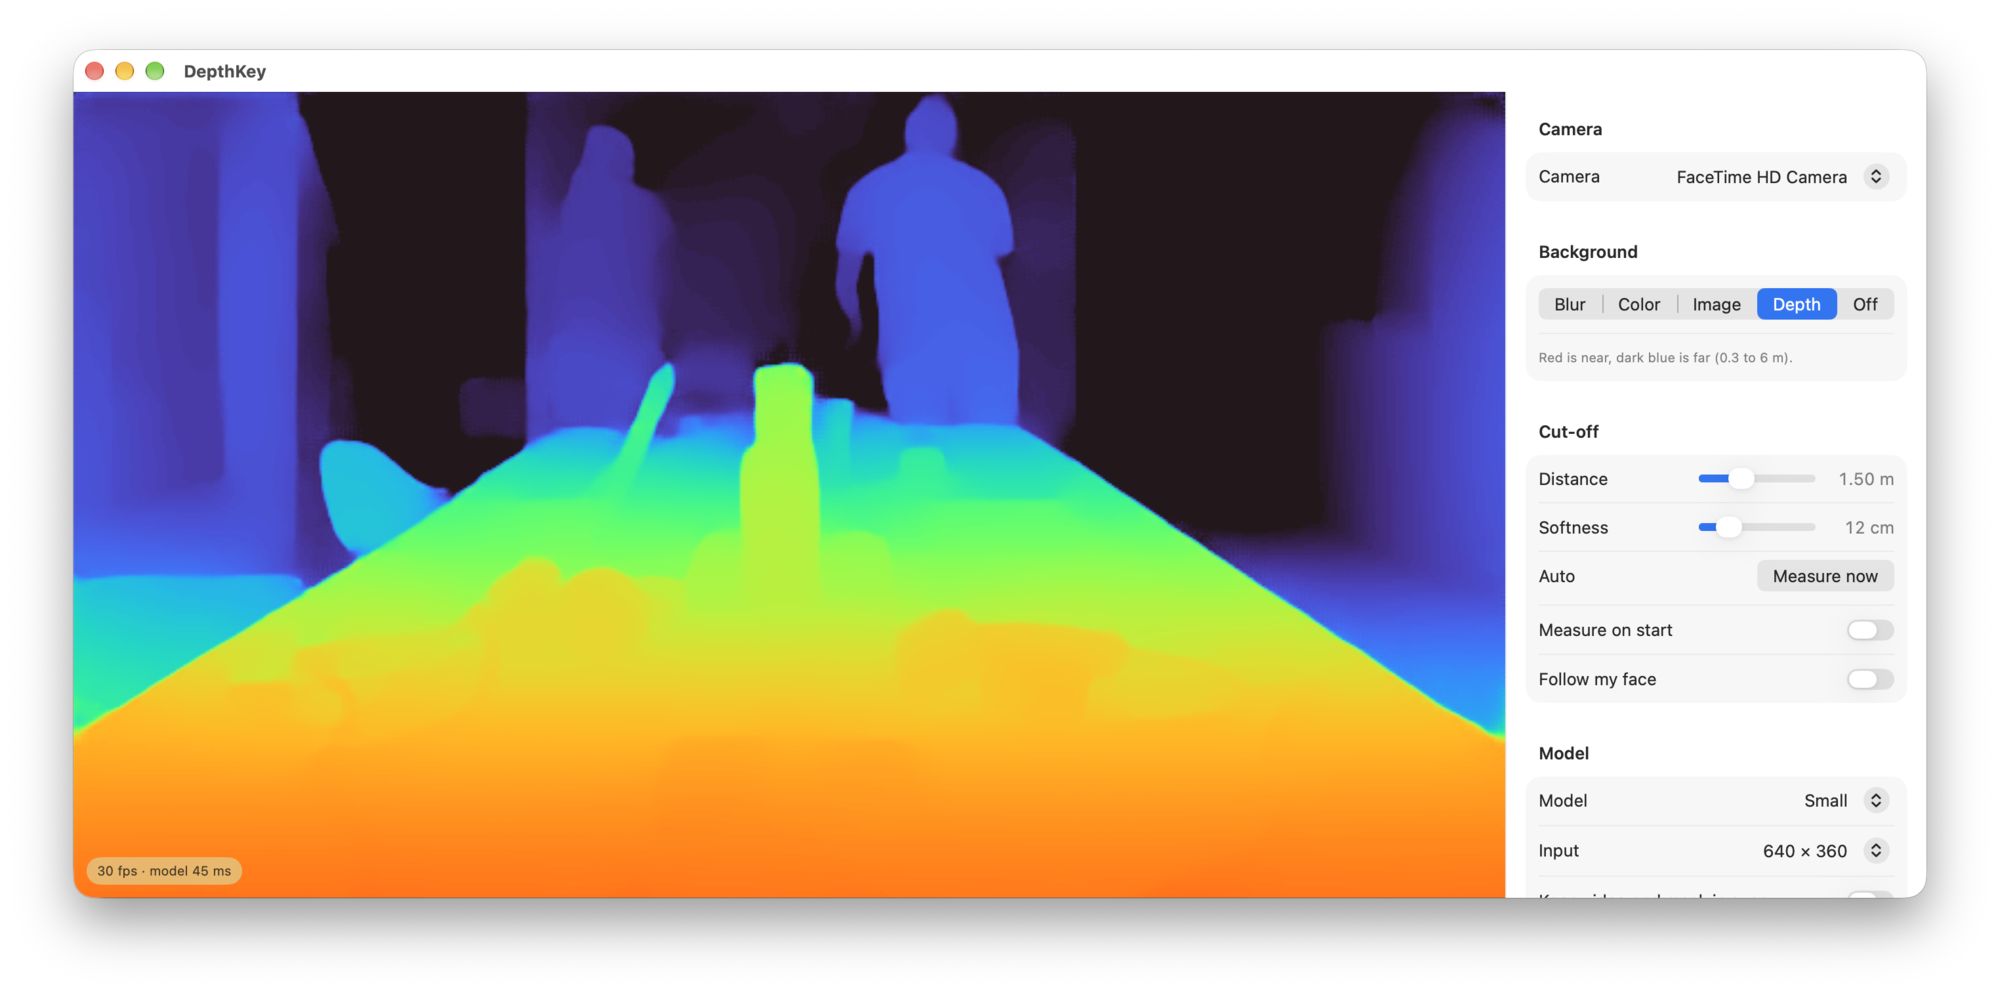
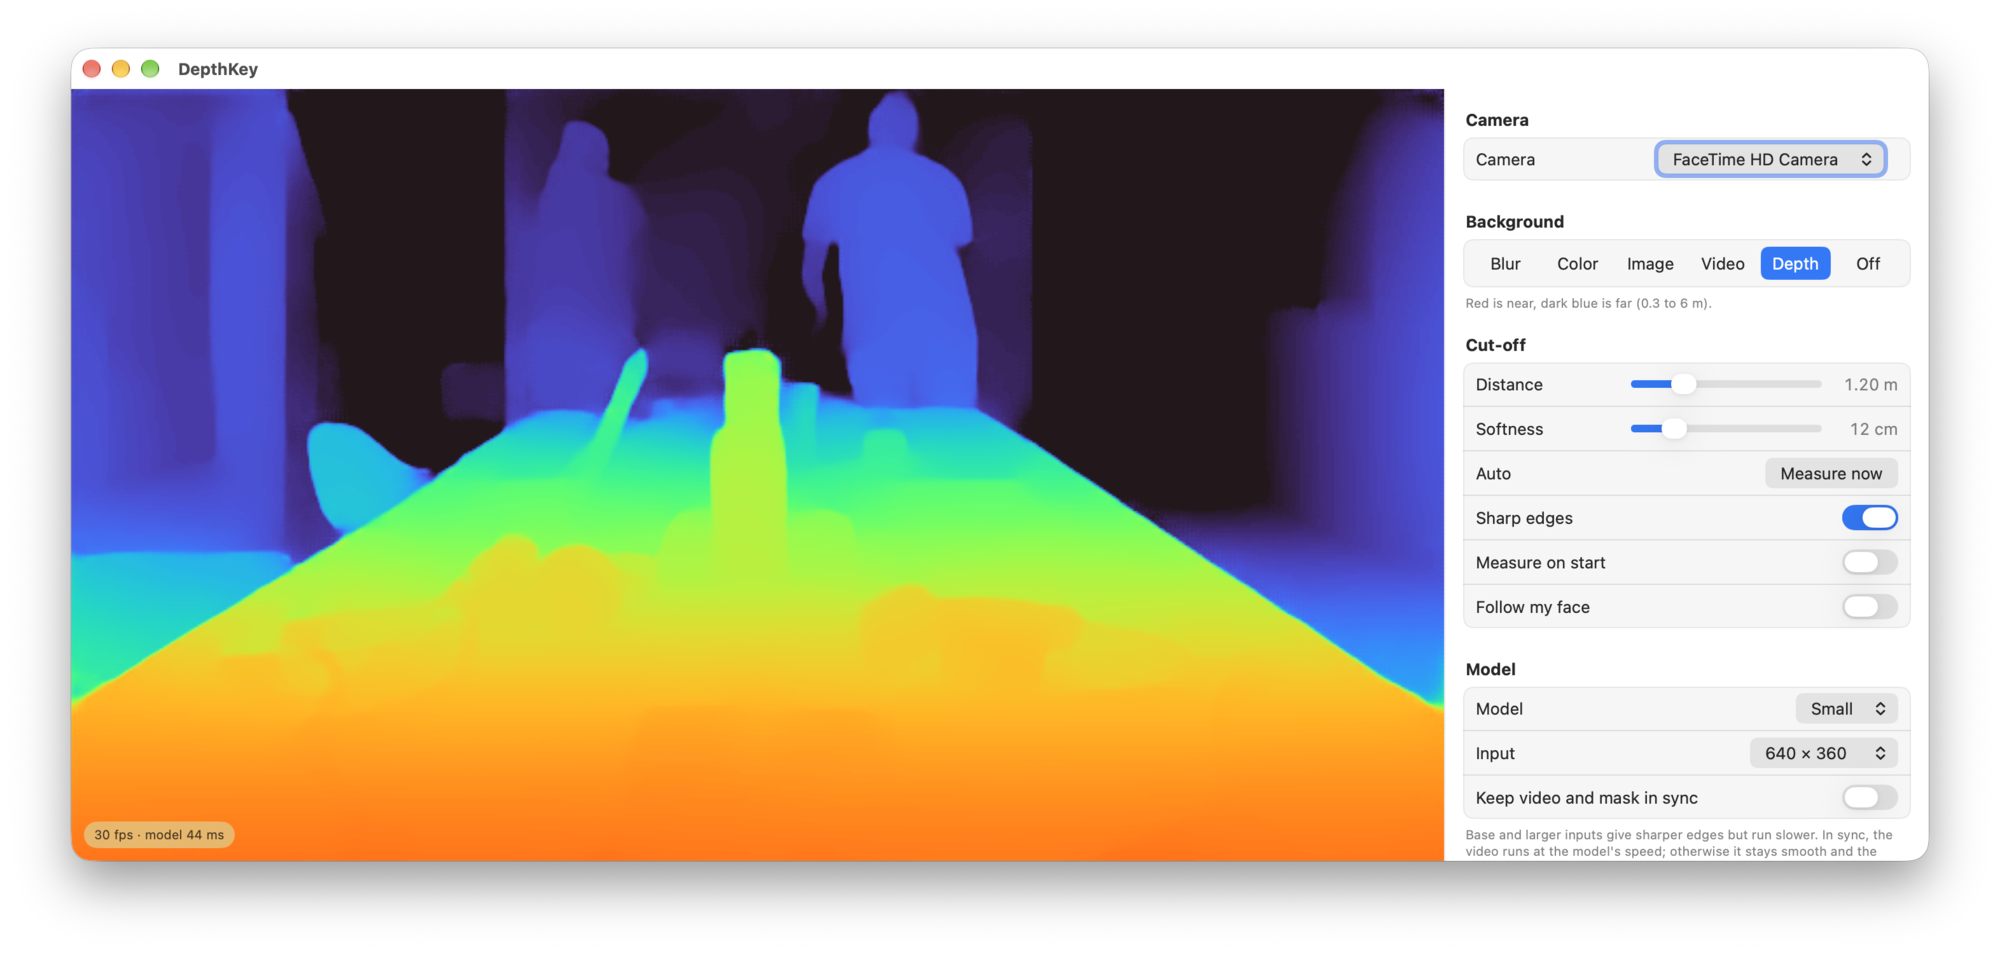
Sharp edges, light wrap, release workflow; version 0.0.1
Sharp edges upsamples the mask with a guided filter steered by the camera
image, so the cut follows hair and fingers. Light wrap lets the
background's light spill softly over your outline (Blur, Image, Video).
New README screenshot of the current sidebar.

.github/workflows/release.yml builds the app and DMG on a macOS runner and
publishes a GitHub Release for v* tags; run by hand it only builds.

diff --git a/mac/DepthKey/Compositor.swift b/mac/DepthKey/Compositor.swift
@@ -22,10 +22,34 @@ enum Compositor {
             let a = (top - depth.meters[i]) / soft  // inf depth gives -inf, so 0
             alpha[i] = a >= 1 ? 255 : (a > 0 ? UInt8(a * 255) : 0)
         }
-        let mask = CIImage(bitmapData: Data(alpha), bytesPerRow: depth.width,
-                           size: CGSize(width: depth.width, height: depth.height), format: .L8, colorSpace: nil)
-            .samplingLinear().transformed(by: toOutput)
-            .clampedToExtent().applyingGaussianBlur(sigma: 1.5 * size.width / 1280).cropped(to: rect)
+        let small = CIImage(bitmapData: Data(alpha), bytesPerRow: depth.width,
+                            size: CGSize(width: depth.width, height: depth.height), format: .L8, colorSpace: nil)
+        let k = size.width / 1920  // filter sizes are tuned at 1080p
+        let mask: CIImage
+        if p.sharpEdges {
+            // Scale the mask up, then refine it with a guided filter steered by the camera image,
+            // so the cut follows real edges (hair, fingers) instead of the blocky low-res depth.
+            // Fed the small mask directly, the filter leaves ghosts of the room in the background; a
+            // light blur first keeps it from sharpening the upscaled pixels into stair-steps.
+            // It writes its result to the red channel; copy that to green and blue, which the blend reads.
+            let red = CIVector(x: 1, y: 0, z: 0, w: 0)
+            mask = small.samplingLinear().transformed(by: toOutput)
+                .clampedToExtent().applyingGaussianBlur(sigma: 2 * k).cropped(to: rect)
+                .applyingFilter("CIGuidedFilter", parameters: [
+                    "inputGuideImage": camera,
+                    "inputRadius": 8 * k,
+                    "inputEpsilon": 0.004,
+                ])
+                .applyingFilter("CIColorMatrix", parameters: [
+                    "inputRVector": red, "inputGVector": red, "inputBVector": red,
+                    "inputAVector": CIVector(x: 0, y: 0, z: 0, w: 1),
+                ])
+                .applyingFilter("CIColorClamp")
+                .cropped(to: rect)
+        } else {
+            mask = small.samplingLinear().transformed(by: toOutput)
+                .clampedToExtent().applyingGaussianBlur(sigma: 2.25 * k).cropped(to: rect)
+        }
 
         let blurred = { camera.clampedToExtent().applyingGaussianBlur(sigma: p.blur * size.width / 1280).cropped(to: rect) }
         let background: CIImage
@@ -41,10 +65,31 @@ enum Compositor {
         case .depth, .off:
             return camera
         }
-        return camera.applyingFilter("CIBlendWithMask", parameters: [
+        let composite = camera.applyingFilter("CIBlendWithMask", parameters: [
             kCIInputBackgroundImageKey: background,
             kCIInputMaskImageKey: mask,
         ])
+        guard p.lightWrap > 0, p.mode != .color else { return composite }  // a wrap would spoil a chroma key
+
+        // Light wrap: the background's light spills a little over your outline, so you sit in the
+        // scene instead of on top of it. Spill = how much background is nearby, inside the foreground.
+        let r = 16 * k
+        let nearBackground = mask.applyingFilter("CIColorInvert")
+            .clampedToExtent().applyingGaussianBlur(sigma: r).cropped(to: rect)
+        let a = CGFloat(min(1, p.lightWrap * 1.6))
+        let spill = nearBackground
+            .applyingFilter("CIMultiplyCompositing", parameters: [kCIInputBackgroundImageKey: mask])
+            .applyingFilter("CIColorMatrix", parameters: [
+                "inputRVector": CIVector(x: a, y: 0, z: 0, w: 0),
+                "inputGVector": CIVector(x: 0, y: a, z: 0, w: 0),
+                "inputBVector": CIVector(x: 0, y: 0, z: a, w: 0),
+            ])
+        // Screen, not mix: the scene's light can only brighten your edges with its color; mixing
+        // its blurred image in made the edges look out of focus.
+        let glow = background.clampedToExtent().applyingGaussianBlur(sigma: r).cropped(to: rect)
+            .applyingFilter("CIMultiplyCompositing", parameters: [kCIInputBackgroundImageKey: spill])
+        return glow.applyingFilter("CIScreenBlendMode", parameters: [kCIInputBackgroundImageKey: composite])
+            .cropped(to: rect)
     }
 
     private static func aspectFill(_ image: CIImage, _ rect: CGRect) -> CIImage {

diff --git a/mac/DepthKey/ContentView.swift b/mac/DepthKey/ContentView.swift
@@ -89,6 +89,9 @@ struct ContentView: View {
                             .help("Depth of your face + 40 cm (the middle of the frame without a face)")
                     }
                     Divider()
+                    SwitchRow("Sharp edges", isOn: $settings.sharpEdges)
+                        .help("Shape the cut along the edges in the camera image (hair, fingers)")
+                    Divider()
                     SwitchRow("Measure on start", isOn: $settings.autoCutoffOnStart)
                     Divider()
                     SwitchRow("Follow my face", isOn: $settings.followFace)
@@ -156,6 +159,7 @@ struct ContentView: View {
         case .blur:
             Divider()
             SliderRow(title: "Strength", value: $settings.blur, range: 4...60, step: 1) { String(format: "%.0f", $0) }
+            lightWrapRow
         case .color:
             Divider()
             Row("Color") { ColorPicker("Color", selection: colorBinding, supportsOpacity: false).labelsHidden() }
@@ -166,12 +170,22 @@ struct ContentView: View {
                     .foregroundStyle(.secondary).lineLimit(1).truncationMode(.middle)
                 Button("Choose…") { model.chooseBackgroundImage() }
             }
+            lightWrapRow
         case .video:
             Divider()
             VideoSourceRow(model: model, settings: settings)
+            lightWrapRow
         case .depth, .off:
             EmptyView()
         }
+    }
+
+    @ViewBuilder private var lightWrapRow: some View {
+        Divider()
+        SliderRow(title: "Light wrap", value: $settings.lightWrap, range: 0...1, step: 0.05) {
+            $0 == 0 ? "Off" : String(format: "%.0f%%", $0 * 100)
+        }
+        .help("Lets the background's light spill softly over your outline, so you blend into the scene")
     }
 
     @ViewBuilder private var backgroundFooter: some View {

diff --git a/mac/DepthKey/Settings.swift b/mac/DepthKey/Settings.swift
@@ -43,6 +43,8 @@ struct Params {
     var video: VideoBackground? = nil // background video, read for each frame
     var sync = false                  // wait for each frame's depth instead of using the latest
     var follow = false                // keep measuring the cut-off from your face
+    var sharpEdges = true             // upsample the mask guided by the camera image
+    var lightWrap = 0.35              // 0...1, background light spilling over your outline
 }
 
 /// User settings, saved in UserDefaults as they change.
@@ -65,6 +67,8 @@ final class Settings: ObservableObject {
     @Published var followFace: Bool { didSet { save(followFace, "followFace") } }
     @Published var syncMask: Bool { didSet { save(syncMask, "syncMask") } }
     @Published var mirrorPreview: Bool { didSet { save(mirrorPreview, "mirrorPreview") } }
+    @Published var sharpEdges: Bool { didSet { save(sharpEdges, "sharpEdges") } }
+    @Published var lightWrap: Double { didSet { save(lightWrap, "lightWrap") } }
 
     init() {
         let d = UserDefaults.standard
@@ -82,6 +86,8 @@ final class Settings: ObservableObject {
         followFace = Self.flag(d, "followFace", false)
         syncMask = Self.flag(d, "syncMask", false)
         mirrorPreview = Self.flag(d, "mirrorPreview", true)
+        sharpEdges = Self.flag(d, "sharpEdges", true)
+        lightWrap = Self.number(d, "lightWrap", 0.35)
     }
 
     /// Stored value, or a launch argument such as `-cutoff 1.2` / `-followFace YES`, or the default.

diff --git a/mac/DepthKey/VideoBackground.swift b/mac/DepthKey/VideoBackground.swift
@@ -160,9 +160,8 @@ final class VideoBackground: @unchecked Sendable {
         let generation = self.generation
         var path: String?
         var lastError = ""
-        weak let owner = self
-        let lines = { (handle: FileHandle) in
-            handle.readabilityHandler = { h in
+        let lines = { [weak self] (handle: FileHandle) in
+            handle.readabilityHandler = { [weak self] h in
                 let data = h.availableData
                 guard !data.isEmpty, let text = String(data: data, encoding: .utf8) else { return }
                 for line in text.split(whereSeparator: \.isNewline).map(String.init) {
@@ -171,8 +170,8 @@ final class VideoBackground: @unchecked Sendable {
                     else if let r = line.range(of: #"\d+(\.\d+)?%"#, options: .regularExpression), line.contains("[download]") {
                         let percent = String(line[r])
                         DispatchQueue.main.async {
-                            guard owner?.generation == generation else { return }
-                            owner?.status("Downloading the video… \(percent)")
+                            guard self?.generation == generation else { return }
+                            self?.status("Downloading the video… \(percent)")
                         }
                     }
                 }

diff --git a/mac/DepthKey/AppModel.swift b/mac/DepthKey/AppModel.swift
@@ -249,6 +249,8 @@ final class AppModel: ObservableObject {
         if s.mode == .video { video.play() } else { video.pause() }
         p.video = video
         p.follow = s.followFace
+        p.sharpEdges = s.sharpEdges
+        p.lightWrap = s.lightWrap
         processor.params = p
     }
 

diff --git a/mac/README.md b/mac/README.md
@@ -34,9 +34,14 @@ Needs Apple silicon, macOS 15+ and OBS 30+ (only for its virtual camera).
     when it drops. Needs `brew install ffmpeg`.
 
   Use videos you have the right to use.
+- **Light wrap** (Blur, Image, Video): the background's light spills softly over your outline, so
+  you look like part of the scene instead of pasted on top. Off for Color, where it would spoil a
+  chroma key.
 - **Cut-off**: everything nearer stays. **Measure now** sets it to the depth of your face + 40 cm
   (the middle of the frame if it finds no face). **Follow my face** measures twice a second and
-  eases the cut-off along as you lean in or back. Softness widens the transition.
+  eases the cut-off along as you lean in or back. Softness widens the transition. **Sharp edges**
+  shapes the cut along the edges in the camera image (hair, fingers) instead of the blockier
+  depth map.
 - **Model**: Small is the default. Base is sharper and about 4× slower. A larger input gives
   sharper edges at a slower speed. The video runs at the camera's 30 fps with the latest depth,
   so the mask can trail a fast move slightly. **Keep video and mask in sync** makes each frame
